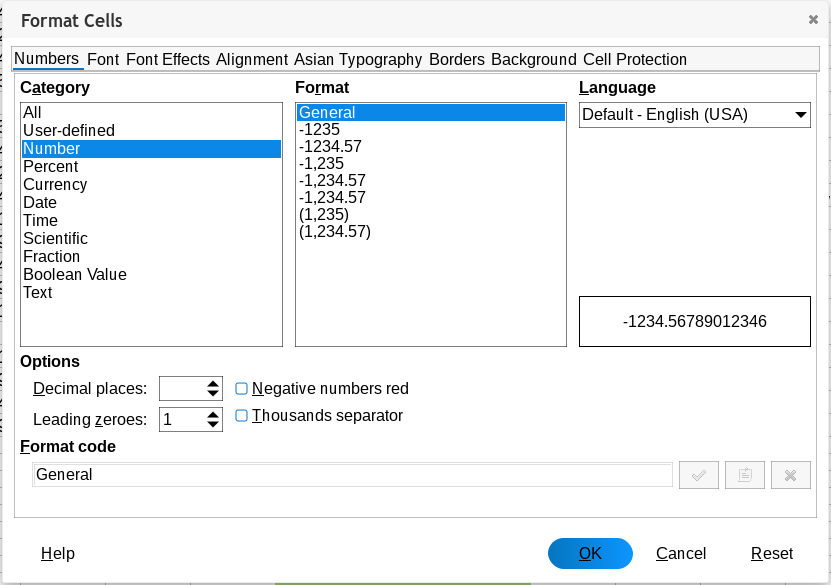
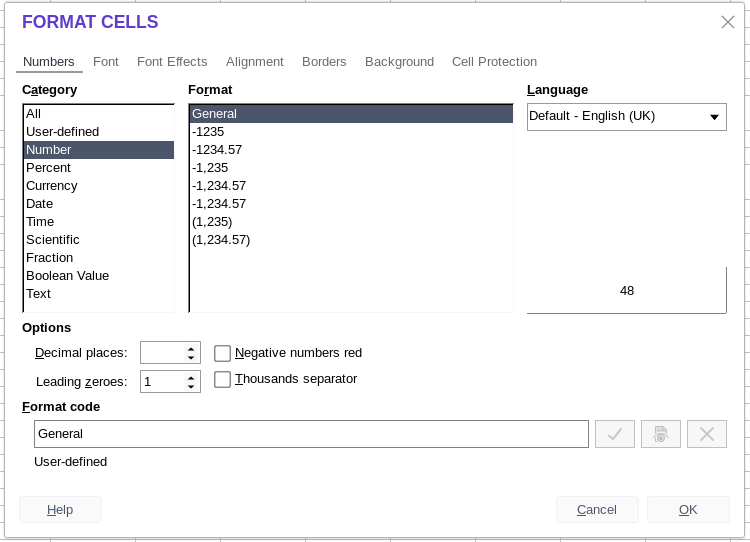
loleaflet: Online Help
Retook the English screenshots at Help -> Online help from share.collabora.com. Then replaced them with the previously existing screenshots that were outdated

Changed region(s): [[0.0, 0.0, 1.0, 1.0], [0.368, 0.5904, 0.6747, 0.6199]]

diff --git a/loleaflet/src/control/Toolbar.js b/loleaflet/src/control/Toolbar.js
@@ -353,6 +353,16 @@ L.Map.include({
 					for (i = 0, max = translatableContent.length; i < max; i++) {
 						translatableContent[i].innerHTML = translatableContent[i].innerHTML.toLocaleString();
 					}
+					
+					//translatable screenshots
+					var supportedLanguage = ['fr', 'it', 'de', 'es', 'pt-BR'];
+					var currentLanguage = String.locale;
+					if (supportedLanguage.includes(currentLanguage)) {
+						translatableContent = $($vexContent.find('.screenshot')).find('img');
+						for (i = 0, max = translatableContent.length; i < max; i++) {
+							translatableContent[i].src = translatableContent[i].src.replace('/en/', '/'+currentLanguage+'/');
+						}
+					}
 
 					// Substitute %productName in Online Help
 					if (id === 'online-help') {
